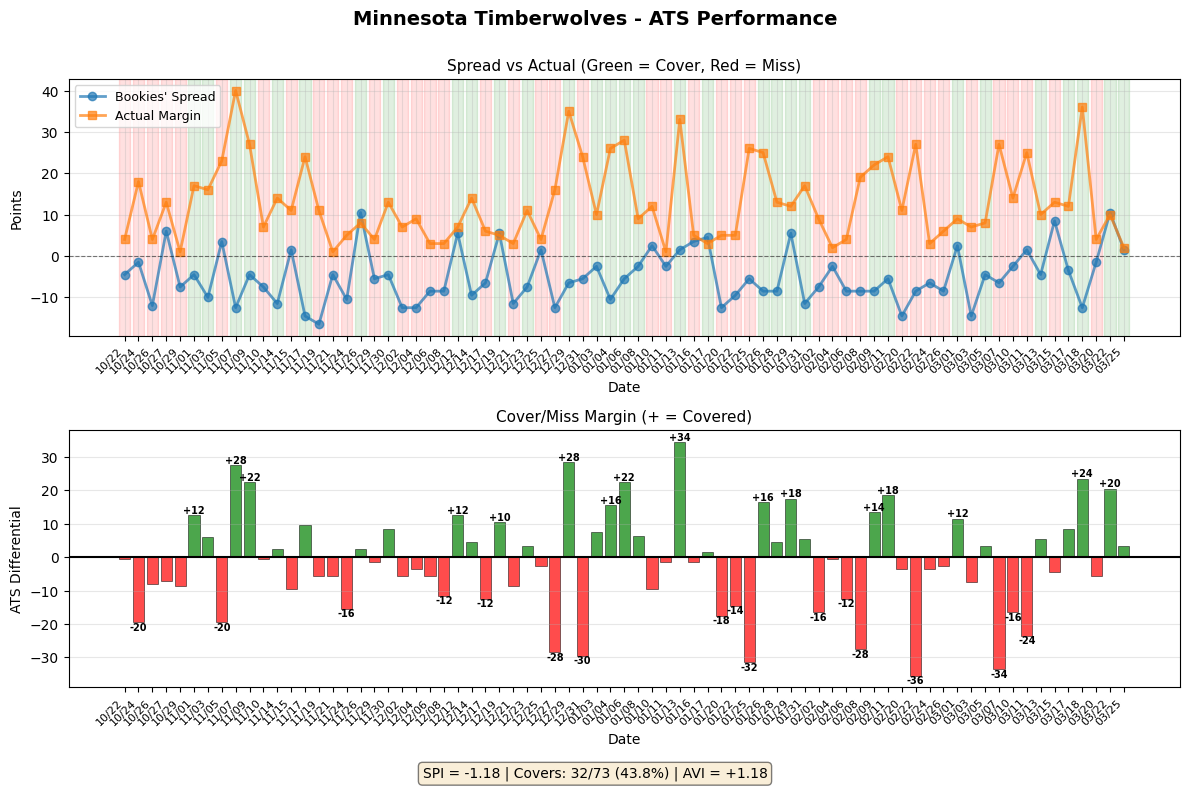
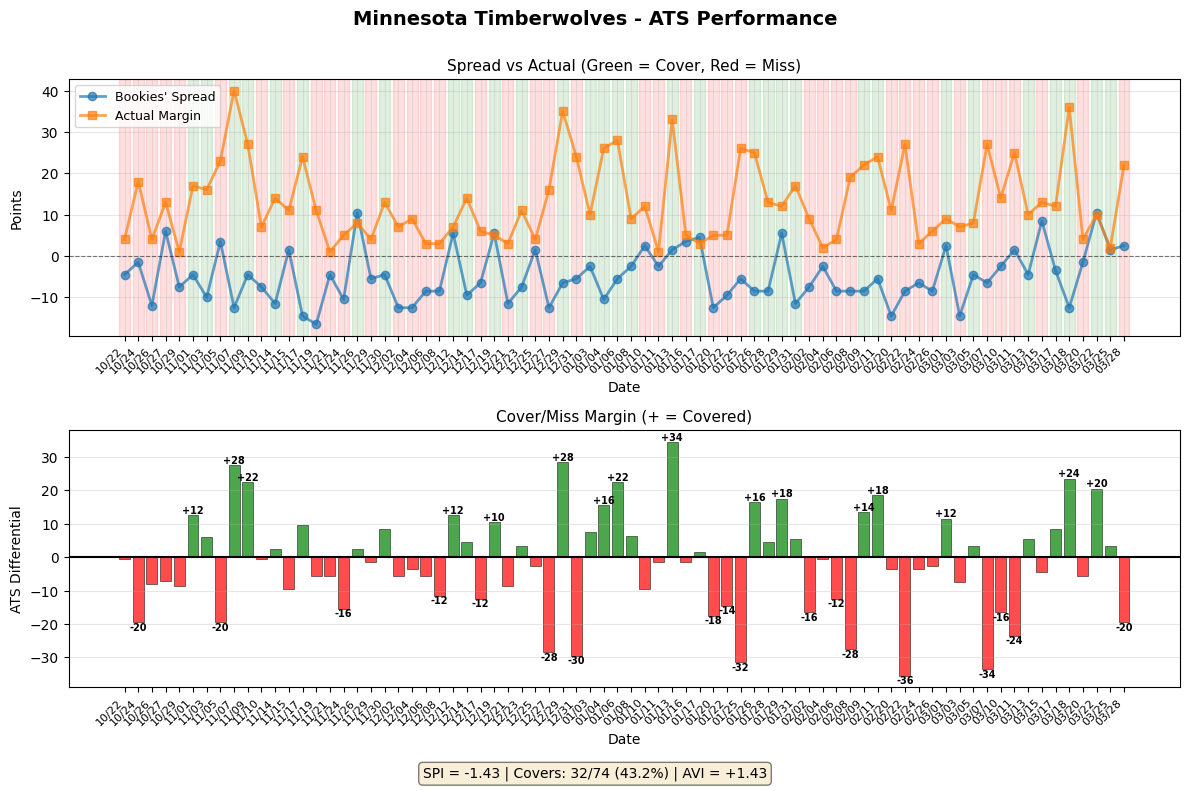
Update nbabetinfo page with ATS plots [2026-03-29 01:27 UTC]

diff --git a/index.html b/index.html
@@ -194,11 +194,11 @@
         </thead>
         <tbody>
           <tr><td class='time'>12:00 PM PT</td><td class='team-name'>San Antonio Spurs (-17.5)</td><td class='metric'>+3.27</td><td class='metric highlight'>+1.53</td><td class='metric'>+8.78</td><td class='metric'>56.0%</td><td class='team-name'>Milwaukee Bucks (+17.5)</td><td class='metric'>-3.77</td><td class='metric'>-8.87</td><td class='metric highlight'>-0.96</td><td class='metric'>42.5%</td></tr>
-<tr><td class='time'>2:30 PM PT</td><td class='team-name'>Detroit Pistons (-2.5)</td><td class='metric'>+2.16</td><td class='metric highlight'>+0.65</td><td class='metric'>+9.15</td><td class='metric'>50.7%</td><td class='team-name'>Minnesota Timberwolves (+2.5)</td><td class='metric'>-1.18</td><td class='metric'>-2.20</td><td class='metric highlight'>+2.18</td><td class='metric'>43.8%</td></tr>
+<tr><td class='time'>2:30 PM PT</td><td class='team-name'>Detroit Pistons (-2.5)</td><td class='metric'>+2.40</td><td class='metric highlight'>+0.96</td><td class='metric'>+9.15</td><td class='metric'>51.4%</td><td class='team-name'>Minnesota Timberwolves (+2.5)</td><td class='metric'>-1.43</td><td class='metric'>-2.20</td><td class='metric highlight'>+0.97</td><td class='metric'>43.2%</td></tr>
 <tr><td class='time'>3:00 PM PT</td><td class='team-name'>Philadelphia 76ers (+6.5)</td><td class='metric'>-0.53</td><td class='metric'>+0.46</td><td class='metric highlight'>-1.73</td><td class='metric'>53.4%</td><td class='team-name'>Charlotte Hornets (-6.5)</td><td class='metric'>+5.77</td><td class='metric highlight strong'>+6.59</td><td class='metric'>+5.24</td><td class='metric strong'>61.6%</td></tr>
 <tr><td class='time'>4:30 PM PT</td><td class='team-name'>Sacramento Kings (+13.5)</td><td class='metric'>-2.83</td><td class='metric'>-2.11</td><td class='metric highlight warning'>-2.93</td><td class='metric warning'>40.5%</td><td class='team-name'>Atlanta Hawks (-13.5)</td><td class='metric'>+0.88</td><td class='metric highlight'>+0.96</td><td class='metric'>+0.80</td><td class='metric'>54.1%</td></tr>
-<tr><td class='time'>5:00 PM PT</td><td class='team-name'>Chicago Bulls (-4.5)</td><td class='metric'>-1.53</td><td class='metric highlight'>-5.56</td><td class='metric'>+0.69</td><td class='metric'>47.9%</td><td class='team-name'>Memphis Grizzlies (+4.5)</td><td class='metric'>+0.49</td><td class='metric'>+0.92</td><td class='metric highlight'>+0.33</td><td class='metric'>46.6%</td></tr>
-<tr><td class='time'>7:00 PM PT</td><td class='team-name'>Utah Jazz (+16.5)</td><td class='metric'>-0.21</td><td class='metric'>-2.50</td><td class='metric highlight'>+0.07</td><td class='metric'>51.4%</td><td class='team-name'>Phoenix Suns (-16.5)</td><td class='metric'>+1.84</td><td class='metric highlight strong'>+2.19</td><td class='metric'>+1.53</td><td class='metric strong'>60.3%</td></tr>
+<tr><td class='time'>5:00 PM PT</td><td class='team-name'>Chicago Bulls (-5.5)</td><td class='metric'>-1.53</td><td class='metric highlight'>-5.56</td><td class='metric'>+0.69</td><td class='metric'>47.9%</td><td class='team-name'>Memphis Grizzlies (+5.5)</td><td class='metric'>+0.49</td><td class='metric'>+0.92</td><td class='metric highlight'>+0.33</td><td class='metric'>46.6%</td></tr>
+<tr><td class='time'>7:00 PM PT</td><td class='team-name'>Utah Jazz (+17.5)</td><td class='metric'>-0.21</td><td class='metric'>-2.50</td><td class='metric highlight'>+0.07</td><td class='metric'>51.4%</td><td class='team-name'>Phoenix Suns (-17.5)</td><td class='metric'>+1.84</td><td class='metric highlight strong'>+2.19</td><td class='metric'>+1.53</td><td class='metric strong'>60.3%</td></tr>
         </tbody>
       </table>
     </div>
